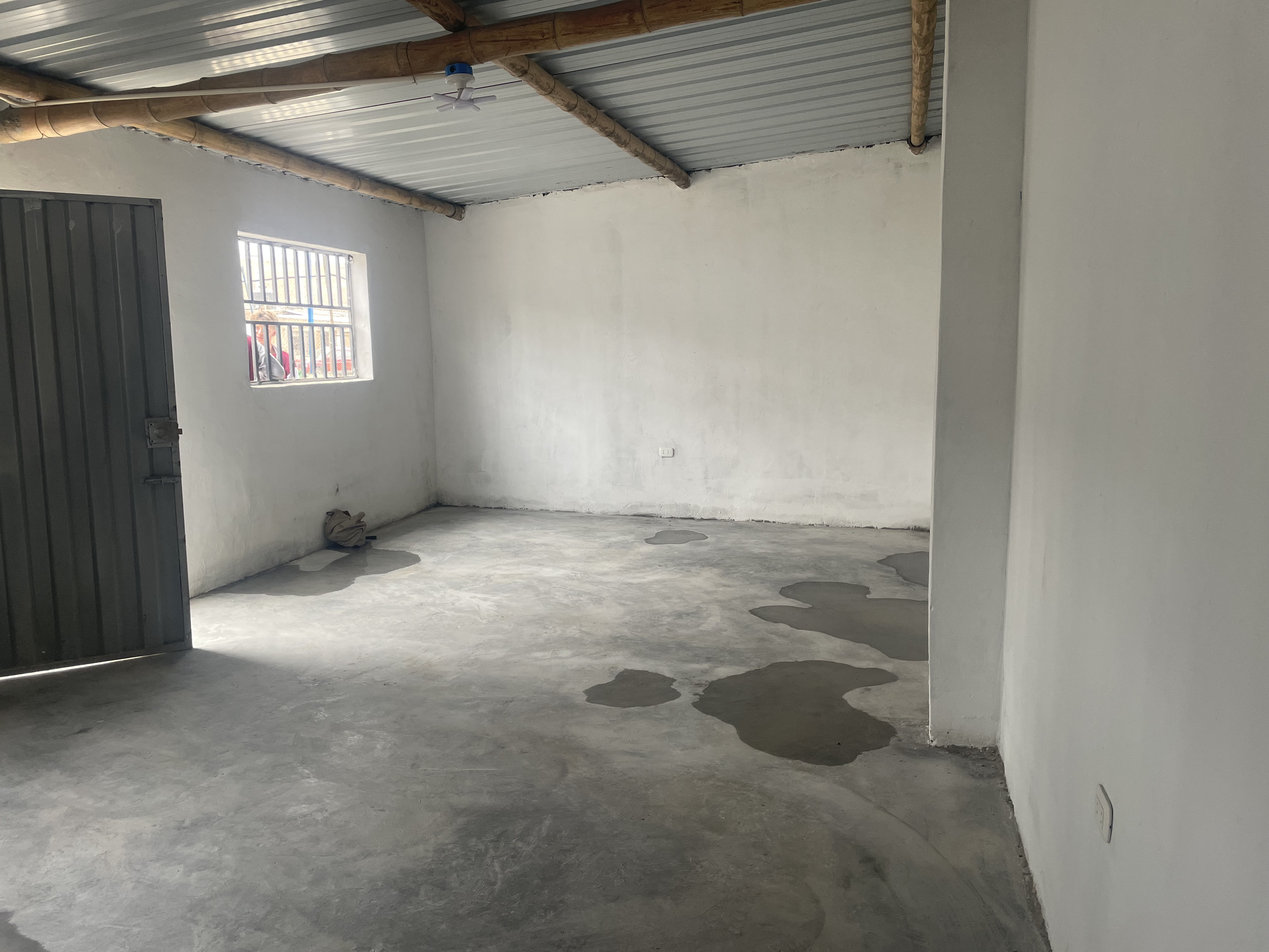
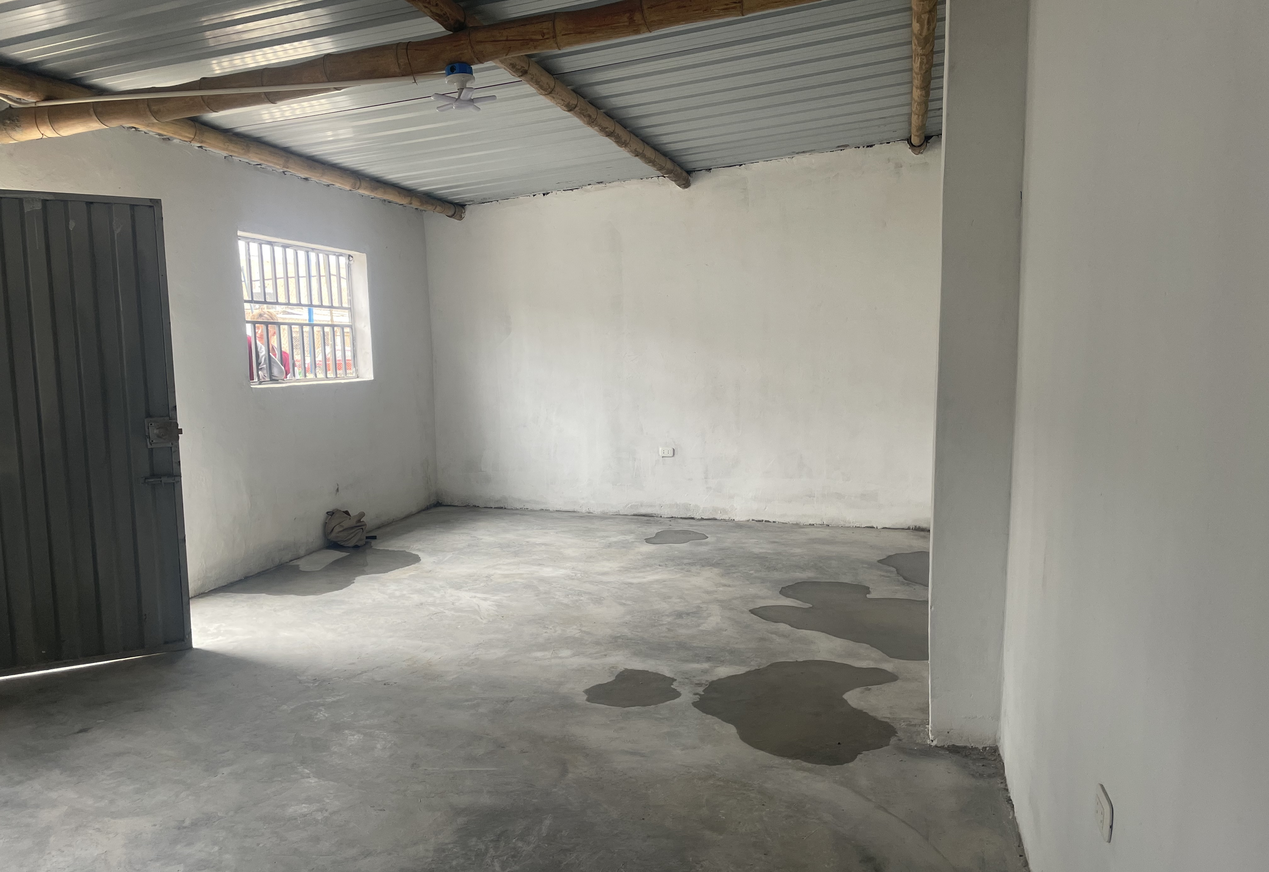
teodocio

diff --git a/EP.html b/EP.html
@@ -206,10 +206,10 @@
                 <div class="row g-0">
                     <div class="col-lg-4">
                         <div class="gallery-item">
-                            <img src="img/Ekip_EP.jpeg" class="img-fluid w-100" alt="L'équipe envoyé à EP">
+                            <img src="img/Coop_Teodocio.jpeg" class="img-fluid w-100" alt="L'équipe envoyé à EP">
                             <div class="gallery-content">
                                 <div class="gallery-inner pb-4">
-                                    <a href="img/Ekip_EP.jpeg" class="h4 text-white">Une coopération avec le maestro</a>
+                                    <a href="img/Coop_teodocio.jpeg" class="h4 text-white">Une coopération avec le maestro</a>
                                 </div>
                             </div>
                         </div>
